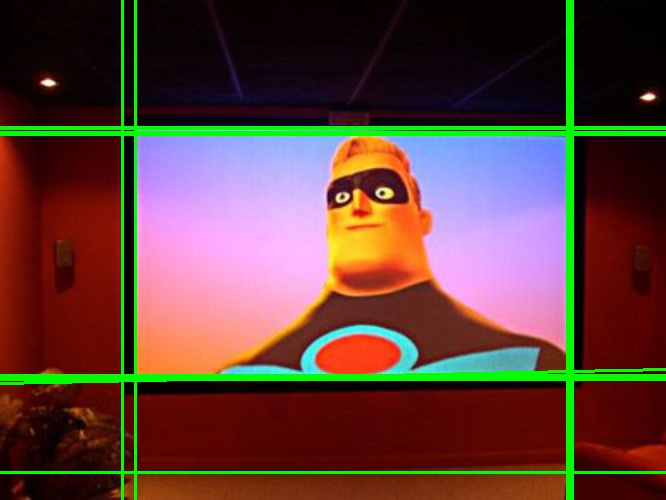
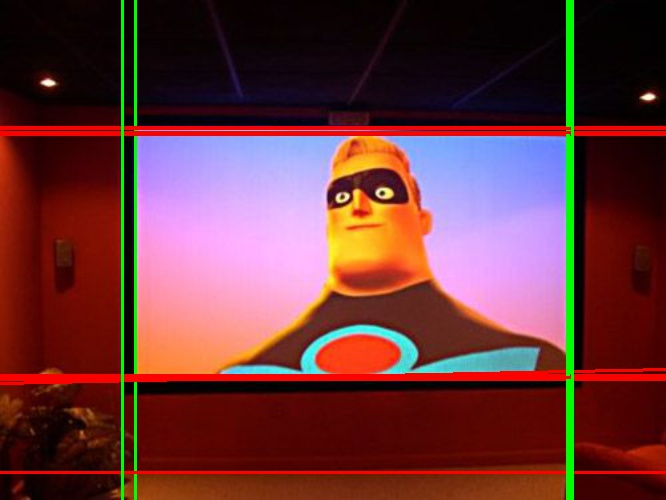
Intersection detection almost completed just need to reduce points to 4

Changed region(s): [[0.0, 0.72, 1.0, 0.78], [0.0, 0.24, 1.0, 0.3], [0.0, 0.93, 1.0, 0.96]]

diff --git a/preprocessing.py b/preprocessing.py
@@ -14,7 +14,35 @@ class PreProcessing:
         self.cropped_image = np.array([])
         self.resized_image = np.array([])
 
-        
+    # def get_image(self):
+    #     '''This function is collecting image from picamera and
+    #     keep this image as a opencv image'''
+    #     #http://picamera.readthedocs.org/en/latest/recipes1.html#capturing-to-a-file
+    #     #Section 4.4 is used to get image from camera to keep in stream and set to image
+    #     #Unfinished function it will improve in future
+    #     #There is a problem with camera warmup time because it will directly
+    #     #connected with sync of the sound
+    #     #in future version no need to return something it can be used as a internal method
+    #     '''
+    #     These lines for rpi
+    #     '''
+    #     # stream = io.bytesio()
+    #     # with picamera.picamera() as camera:
+    #     #     camera.resolution = (640, 480)
+    #     #     camera.capture(stream, format = 'jpeg')
+    #     #
+    #     # data = np.fromstring(stream.getvalue(), dtype = np.uint8)
+    #     # self.image = cv2.imdecode(data, 0)
+    #     self.img_name = raw_input("Please enter image name which will process for feature extraction: ")
+    #     self.img_name += ".jpg"
+    #     try:
+    #         self.image = cv2.imread(self.img_name,0)
+    #         return self.image
+    #     except:
+    #         print "ERROR: This image is not exist or unknown format."
+
+    # def get_image_name(self):
+    #     return self.img_name 
 
     def gray_image(self, image):
         image_gray = cv2.cvtColor(image, cv2.COLOR_BGR2GRAY)
@@ -35,13 +63,17 @@ class PreProcessing:
         return edge
 
     def get_hough_lines(self, image):
+        '''This function is for finding hough lines properly and extending them for visualization purposes'''
         height, width = image.shape[:2]
         image = cv2.resize(image, (int(width * (500.0 / height)), 500), cv2.INTER_LINEAR)
         lines = cv2.HoughLinesP(self.get_edged(image, 5), 1, np.pi/180, 70, 30, 10)
         width_resized = int(width * (500.0 / height))
-
+        height_resized = 500
+        extended_lines = []
+        counter = 0
         for line in lines:
-            v = line[0]
+            #v is a vector storing one line information
+            v = line[0] 
             m = 0
             if (v[0] - v[2]) != 0:
                 m = (float(v[1]) - float(v[3])) / (float(v[0]) - float(v[2]))
@@ -50,16 +82,21 @@ class PreProcessing:
                 v[1] = b
                 v[2] = width_resized
                 v[3] = width_resized * m + b
-                if v[3] > 500 or v[3] < 0:
-                    v[2] = 500 * m + b
-                    v[3] = 500
+                if v[3] > height_resized or v[3] < 0:
+                    v[2] = height_resized * m + b
+                    v[3] = height_resized
                 cv2.line(image,(v[0], v[1]), (v[2], v[3]),(0,0,255),2)
 
             else:
                 v[1] = 0
-                v[3] = 500
+                v[3] = height_resized
+                cv2.line(image,(v[0], v[1]), (v[2], v[3]),(0,255,0),2)
+            extended_lines.append([])
 
+            for element in v:
+                extended_lines[counter].append(element)
 
+            counter += 1
             
             #print m, b
             # line_draw = []
@@ -67,8 +104,28 @@ class PreProcessing:
             # line[0][1] = float(((v[1] - v[3]) / (v[0] - v[2])) * -v[0] + v[1])
             # line[0][2] = width_resized
             # line[0][3] = float(((v[1] - v[3]) / (v[0] - v[2])) * (width_resized - v[2]) + v[3])
-            cv2.line(image,(line[0][0], line[0][1]), (line[0][2], line[0][3]),(0,255,0),2)
+            #cv2.line(image,(line[0][0], line[0][1]), (line[0][2], line[0][3]),(0,255,0),2)
             
+        return lines
+
+    def get_intersection(self, image, line1, line2):
+        height, width = image.shape[:2]
+        image = cv2.resize(image, (int(width * (500.0 / height)), 500), cv2.INTER_LINEAR)
+        x1 = line1[0][0]; y1 = line1[0][1]; x2 = line1[0][2]; y2 = line1[0][3]
+        x3 = line2[0][0]; y3 = line2[0][1]; x4 = line2[0][2]; y4 = line2[0][3]
+        intersection_point = []
+
+        d = (x1 - x2) * (y3 - y4) - (y1 - y2) * (x3 - x4)
+        if d != 0:
+            px = ((x1 * y2 - y1 * x2) * (x3 - x4) - (x1 - x2) * (x3 * y4 - y3 * x4)) / d
+            py = ((x1 * y2 - y1 * x2) * (y3 - y4) - (y1 - y2) * (x3 * y4 - y3 * x4)) / d
+            intersection_point.append(px)
+            intersection_point.append(py)
+            cv2.circle(image, (intersection_point[0],intersection_point[1]), 5, (255, 0, 0), -1)
+            
+        else:
+            intersection_point = [0, 0]
+
         return image
 
     def get_perspective(self, image):
@@ -134,7 +191,12 @@ except:
     print "ERROR: This image is not exist or unknown format."
 
 yunus = PreProcessing(image, 128, False)
-image6 = yunus.get_hough_lines(image)
+lines = yunus.get_hough_lines(image)
+circle_image = image
+for i in range(0, len(lines)):
+    for j in range(i + 1, len(lines)):
+            circle_image = yunus.get_intersection(circle_image, lines[i], lines[j])
+
 image2 = yunus.get_scaled()
 image3 = yunus.get_cropped()
 image4 = yunus.get_blurred(image, 3)
@@ -146,4 +208,5 @@ cv2.imwrite("output/" + img_name[0:-4] + '_scaled.jpg', image2)
 cv2.imwrite("output/" + img_name[0:-4] + '_cropped.jpg', image3)
 cv2.imwrite("output/" + img_name[0:-4] + '_blurred.jpg', image4)
 cv2.imwrite("output/" + img_name[0:-4] + '_edged.jpg', image5)
-cv2.imwrite("output/" + img_name[0:-4] + '_lines.jpg', image6)
+# cv2.imwrite("output/" + img_name[0:-4] + '_lines.jpg', image6)
+cv2.imwrite("output/" + img_name[0:-4] + '_intersection.jpg', circle_image)

diff --git a/extractionv4.py b/extractionv4.py
@@ -81,35 +81,7 @@ class SignatureExtraction:
         self.height = len(image)
         self.width = len(image[0,:])
 
-    # def get_image(self):
-    #     '''This function is collecting image from picamera and
-    #     keep this image as a opencv image'''
-    #     #http://picamera.readthedocs.org/en/latest/recipes1.html#capturing-to-a-file
-    #     #Section 4.4 is used to get image from camera to keep in stream and set to image
-    #     #Unfinished function it will improve in future
-    #     #There is a problem with camera warmup time because it will directly
-    #     #connected with sync of the sound
-    #     #in future version no need to return something it can be used as a internal method
-    #     '''
-    #     These lines for rpi
-    #     '''
-    #     # stream = io.bytesio()
-    #     # with picamera.picamera() as camera:
-    #     #     camera.resolution = (640, 480)
-    #     #     camera.capture(stream, format = 'jpeg')
-    #     #
-    #     # data = np.fromstring(stream.getvalue(), dtype = np.uint8)
-    #     # self.image = cv2.imdecode(data, 0)
-    #     self.img_name = raw_input("Please enter image name which will process for feature extraction: ")
-    #     self.img_name += ".jpg"
-    #     try:
-    #         self.image = cv2.imread(self.img_name,0)
-    #         return self.image
-    #     except:
-    #         print "ERROR: This image is not exist or unknown format."
 
-    # def get_image_name(self):
-    #     return self.img_name
 
 
 
